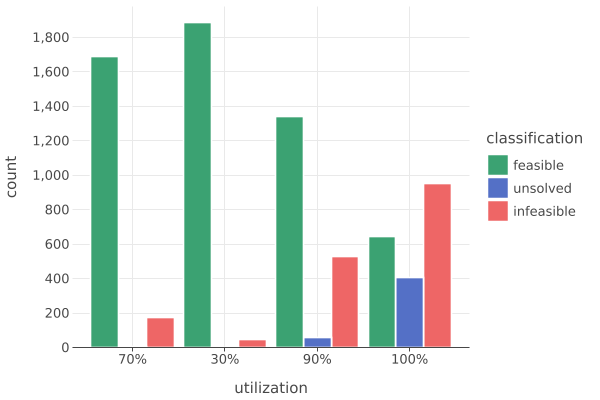
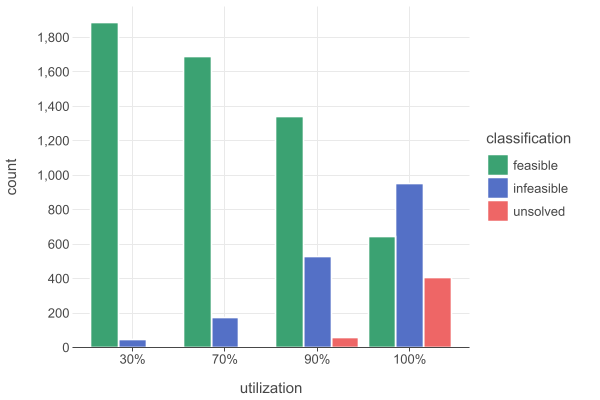
more plots

diff --git a/src/main/kotlin/experiments/feasibility/FeasibilityQuery.kt b/src/main/kotlin/experiments/feasibility/FeasibilityQuery.kt
@@ -1,51 +1,22 @@
 package experiments.feasibility
 
-import org.jetbrains.kotlinx.dataframe.api.DataFrameBuilder
-import org.jetbrains.kotlinx.dataframe.api.column
 import org.jetbrains.kotlinx.dataframe.api.groupBy
 import org.jetbrains.kotlinx.dataframe.api.toDataFrame
 import org.jetbrains.kotlinx.kandy.dsl.categorical
 import org.jetbrains.kotlinx.kandy.dsl.plot
 import org.jetbrains.kotlinx.kandy.letsplot.export.save
+import org.jetbrains.kotlinx.kandy.letsplot.feature.layout
 import org.jetbrains.kotlinx.kandy.letsplot.layers.bars
-import org.jetbrains.kotlinx.kandy.letsplot.layers.line
-import org.jetbrains.kotlinx.kandy.letsplot.layers.points
+import org.jetbrains.kotlinx.kandy.letsplot.x
+import org.jetbrains.kotlinx.kandy.letsplot.y
 import org.jetbrains.kotlinx.kandy.util.color.Color
 import org.jetbrains.kotlinx.statistics.kandy.layers.countPlot
-import org.jetbrains.kotlinx.statistics.kandy.statplots.countPlot
-import org.jetbrains.kotlinx.statistics.kandy.stattransform.statCount
 import java.io.File
 import java.util.*
 import java.util.concurrent.Executors
 import java.util.concurrent.TimeUnit
 
 fun main() {
-//	val data = mapOf(
-//		"solver" to listOf("heuristic", "z3"),
-//		"feasible" to listOf(30, 15),
-//		"infeasible" to listOf(5, 3),
-//		"unsolved" to listOf(2, 10)
-//	)
-//	val data = mapOf(
-//		"utilization" to listOf("30%", "100%", "100%", "90%"),
-//		"classification" to listOf("feasible", "infeasible", "unsolved", "feasible"),
-//	)
-//	data.toDataFrame().groupBy("classification").plot {
-//		countPlot("utilization") {
-//			fillColor("classification") {
-//				scale = categorical(listOf(Color.GREEN, Color.BLUE, Color.RED))
-//			}
-//		}
-//	}.save("bars.png")
-//	plot(data) {
-//		points {
-//			x(column<String>("solver"))
-//			y(column<Int>("feasible"))
-//			size = 4.5
-//		}
-//
-//	}.save("plot.png")
-
 	val outerFolders = File("feasibility-results").listFiles()!!
 	val results = Collections.synchronizedList(ArrayList<FeasibilityCaseResult>())
 	val threadPool = Executors.newFixedThreadPool(8)
@@ -54,7 +25,11 @@ fun main() {
 		for (innerFolder in outerFolder.listFiles()!!) {
 			if (!innerFolder.isDirectory) continue
 			threadPool.submit {
-				results.add(FeasibilityCaseResult.parse(innerFolder))
+				try {
+					results.add(FeasibilityCaseResult.parse(innerFolder))
+				} catch (failed: Throwable) {
+					failed.printStackTrace()
+				}
 			}
 		}
 	}
@@ -148,17 +123,114 @@ fun main() {
 		return "unsolved"
 	}
 
-	run {
-		val data = mapOf(
-			"utilization" to results.map { "${it.config.utilization}%" },
-			"classification" to results.map { classification(it.certainlyFeasible, it.certainlyInfeasible) }
-		)
-		data.toDataFrame().groupBy("classification").plot {
-			countPlot("utilization") {
-				fillColor("classification") {
-					scale = categorical(listOf(Color.GREEN, Color.BLUE, Color.RED))
-				}
+	println(results.count { it.certainlyInfeasible && !it.heuristicResult.certainlyInfeasible && it.config.precedence })
+	println(results.count { it.certainlyFeasible && !it.heuristicResult.certainlyFeasible && !it.cplexResult.certainlyFeasible })
+	println(results.count { it.certainlyInfeasible && !it.heuristicResult.certainlyInfeasible && !it.z3Result.certainlyInfeasible })
+//	run {
+//		results.sortBy { it.config.utilization }
+//		val data = mapOf(
+//			"utilization" to results.map { "${it.config.utilization}%" },
+//			"classification" to results.map { classification(it.certainlyFeasible, it.certainlyInfeasible) }
+//		)
+//		data.toDataFrame().groupBy("classification").plot {
+//			countPlot("utilization") {
+//				fillColor("classification") {
+//					scale = categorical(listOf(Color.GREEN, Color.BLUE, Color.RED))
+//				}
+//			}
+//		}.save("total-utilization-vs-classification.png")
+//	}
+
+//	run {
+//		results.sortWith { a, b ->
+//			if (a.config.numJobs == b.config.numJobs) {
+//				classification(a.certainlyFeasible, a.certainlyInfeasible).compareTo(classification(b.certainlyFeasible, b.certainlyInfeasible))
+//			} else a.config.numJobs.compareTo(b.config.numJobs)
+//		}
+//		val data = mapOf(
+//			"jobs" to results.map { it.config.numJobs.toString() },
+//			"classification" to results.map { classification(it.certainlyFeasible, it.certainlyInfeasible) }
+//		)
+//		data.toDataFrame().groupBy("classification").plot {
+//			countPlot("jobs") {
+//				fillColor("classification") {
+//					scale = categorical(listOf(Color.GREEN, Color.BLUE, Color.RED))
+//				}
+//			}
+//		}.save("total-jobs-vs-classification.png")
+//	}
+
+	fun solverBars(totalCount: Int, solverCounts: List<Int>, label: String, file: String) {
+		plot {
+			x(listOf("heuristic", "Z3", "CPLEX", "Minisat"))
+			layout {
+				xAxisLabel = "feasibility test"
+				yAxisLabel = label
 			}
-		}.save("total-utilization-vs-classification.png")
+			bars {
+				y.constant(totalCount)
+				width = 0.5
+				fillColor = Color.GREY
+				alpha = 0.3
+			}
+			bars {
+				y(solverCounts)
+			}
+		}.save(file)
 	}
+
+	solverBars(results.count { it.certainlyFeasible }, listOf(
+		results.count { it.heuristicResult.certainlyFeasible },
+		results.count { it.z3Result.certainlyFeasible },
+		results.count { it.cplexResult.certainlyFeasible },
+		results.count { it.minisatResult?.certainlyFeasible == true }
+	), "number of problems solved", "feasible-problems-vs-solvers.png")
+	solverBars(results.count { it.certainlyInfeasible }, listOf(
+		results.count { it.heuristicResult.certainlyInfeasible },
+		results.count { it.z3Result.certainlyInfeasible },
+		results.count { it.cplexResult.certainlyInfeasible },
+		results.count { it.minisatResult?.certainlyInfeasible == true }
+	), "number of problems solved", "infeasible-problems-vs-solvers.png")
+	solverBars(results.count { !it.config.precedence && it.certainlyFeasible }, listOf(
+		results.count { !it.config.precedence && it.heuristicResult.certainlyFeasible },
+		results.count { !it.config.precedence && it.z3Result.certainlyFeasible },
+		results.count { !it.config.precedence && it.cplexResult.certainlyFeasible },
+		results.count { !it.config.precedence && it.minisatResult?.certainlyFeasible == true }
+	), "number of problems solved", "no-prec-feasible-problems-vs-solvers.png")
+	solverBars(results.count { !it.config.precedence && it.certainlyInfeasible }, listOf(
+		results.count { !it.config.precedence && it.heuristicResult.certainlyInfeasible },
+		results.count { !it.config.precedence && it.z3Result.certainlyInfeasible },
+		results.count { !it.config.precedence && it.cplexResult.certainlyInfeasible },
+		results.count { !it.config.precedence && it.minisatResult?.certainlyInfeasible == true }
+	), "number of problems solved", "no-prec-infeasible-problems-vs-solvers.png")
+	solverBars(results.count { it.config.precedence && it.certainlyFeasible }, listOf(
+		results.count { it.config.precedence && it.heuristicResult.certainlyFeasible },
+		results.count { it.config.precedence && it.z3Result.certainlyFeasible },
+		results.count { it.config.precedence && it.cplexResult.certainlyFeasible },
+		results.count { it.config.precedence && it.minisatResult?.certainlyFeasible == true }
+	), "number of problems solved", "only-prec-feasible-problems-vs-solvers.png")
+	solverBars(results.count { it.config.precedence && it.certainlyInfeasible }, listOf(
+		results.count { it.config.precedence && it.heuristicResult.certainlyInfeasible },
+		results.count { it.config.precedence && it.z3Result.certainlyInfeasible },
+		results.count { it.config.precedence && it.cplexResult.certainlyInfeasible },
+		results.count { it.config.precedence && it.minisatResult?.certainlyInfeasible == true }
+	), "number of problems solved", "only-prec-infeasible-problems-vs-solvers.png")
+
+	fun isExclusiveFeasible(result: FeasibilityCaseResult, test: FeasibilityTest) = result.certainlyFeasible &&
+			result.getAll()[test]!!.certainlyFeasible && result.getAll().values.count { it.certainlyFeasible } == 1
+	fun isExclusiveInfeasible(result: FeasibilityCaseResult, test: FeasibilityTest) = result.certainlyInfeasible &&
+			result.getAll()[test]!!.certainlyInfeasible && result.getAll().values.count { it.certainlyInfeasible } == 1
+
+	solverBars(results.count { it.certainlyFeasible }, listOf(
+		results.count { isExclusiveFeasible(it, FeasibilityTest.HEURISTIC) },
+		results.count { isExclusiveFeasible(it, FeasibilityTest.Z3_MODEL1) },
+		results.count { isExclusiveFeasible(it, FeasibilityTest.CPLEX) },
+		0
+	), "number of problems exclusively solved", "feasible-problems-exclusive-solvers.png")
+	solverBars(results.count { it.certainlyInfeasible }, listOf(
+		results.count { isExclusiveInfeasible(it, FeasibilityTest.HEURISTIC) },
+		results.count { isExclusiveInfeasible(it, FeasibilityTest.Z3_MODEL1) },
+		results.count { isExclusiveInfeasible(it, FeasibilityTest.CPLEX) },
+		0
+	), "number of problems exclusively solved", "infeasible-problems-exclusive-solvers.png")
 }

diff --git a/src/main/kotlin/experiments/feasibility/FeasibilityTest.kt b/src/main/kotlin/experiments/feasibility/FeasibilityTest.kt
@@ -6,7 +6,7 @@ class FeasibilityTest(
 ) {
 	companion object {
 		val HEURISTIC = FeasibilityTest("heuristic", arrayOf("--feasibility-exact"))
-		val Z3_MODEL1 = FeasibilityTest("z3-model1", arrayOf("--feasibility-z3", "1"))
+		val Z3_MODEL1 = FeasibilityTest("z3", arrayOf("--feasibility-z3", "1"))
 		val Z3_MODEL2 = FeasibilityTest("z3-model2", arrayOf("--feasibility-z3", "2"))
 		val CPLEX = FeasibilityTest("cplex", arrayOf("--feasibility-cplex"))
 		val MINISAT = FeasibilityTest("minisat", arrayOf("--feasibility-minisat"))

diff --git a/src/main/kotlin/experiments/feasibility/FeasibilityResult.kt b/src/main/kotlin/experiments/feasibility/FeasibilityResult.kt
@@ -58,7 +58,7 @@ class FeasibilityConfig(
 		fun parse(folder: File): FeasibilityConfig {
 			val numJobs = run {
 				val endIndex = folder.path.indexOf("jobs")
-				val startIndex = folder.path.lastIndexOf("/", endIndex) + 1
+				val startIndex = folder.path.lastIndexOf(File.separator, endIndex) + 1
 				parseInt(folder.path.substring(startIndex, endIndex))
 			}
 			val utilization = run {
